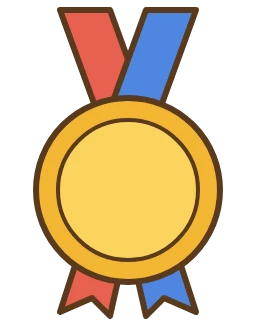
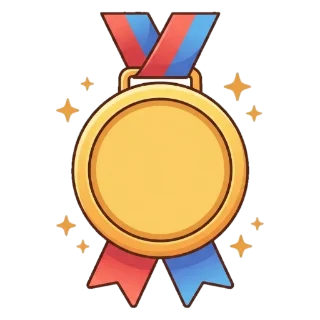
feat: real trophy robot and medal art for the level celebration
On phones the trophy robot now sits next to the medal instead of hiding
behind the round-end buttons; medal and unlocked page share one row and
the level number is centred on the new medal.

diff --git a/css/app.css b/css/app.css
@@ -246,9 +246,12 @@ input[type="range"] { width: 100%; accent-color: var(--primary); height: 32px; }
 .level-row + .level-row { border-top: 2px solid var(--line); }
 .level-row h3 { margin: 4px 0 0; font-size: 1.1rem; }
 .level-up { position: relative; width: 96px; height: 120px; animation: pop .5s .4s both; }
+.end-row { display: flex; align-items: center; justify-content: center; gap: 20px; }
+.level-up-robot { display: none; width: 96px; animation: pop .5s .4s both; }
+@media (max-width: 480px) { .level-up-robot { display: block; } .mascot-trophy { display: none; } }
 .level-up .medal { width: 100%; height: 100%; object-fit: contain; }
-.medal-num { position: absolute; left: 0; right: 0; top: 59%; transform: translateY(-50%); text-align: center; font-size: 2.6rem; font-weight: 700; line-height: 1; color: #8A5A12; }
-.medal-badge { width: 24px; height: 30px; display: grid; place-items: end center; padding-bottom: 3px; background: url(../assets/decor/medal.webp) center / contain no-repeat; color: #8A5A12 !important; font-size: .75rem !important; }
+.medal-num { position: absolute; left: 0; right: 0; top: 51%; transform: translateY(-50%); text-align: center; font-size: 2.6rem; font-weight: 700; line-height: 1; color: #8A5A12; }
+.medal-badge { width: 24px; height: 30px; display: grid; place-items: center; padding-top: 1px; background: url(../assets/decor/medal.webp) center / contain no-repeat; color: #8A5A12 !important; font-size: .75rem !important; }
 .hint.done { display: flex; align-items: center; gap: 8px; color: var(--ink); font-weight: 700; }
 .hint.done img { width: 28px; height: 35px; object-fit: contain; }
 .letter-grid { display: grid; grid-template-columns: repeat(auto-fill, minmax(48px, 1fr)); gap: 6px; margin: 8px 0 12px; }
@@ -311,6 +314,7 @@ input[type="range"] { width: 100%; accent-color: var(--primary); height: 32px; }
   .bonus { font-size: 8vh; }
   .bonus img { width: 8vh; }
   .sticker-hint { padding: 1.5vh 18px; font-size: min(1.3rem, 6vh); }
+  .level-up { width: 16vh; height: 20vh; }
   .unlock { font-size: 6vh; }
   .unlock img { width: 8vh; }
   .rays { --rays: 60vh; }

diff --git a/js/ui/round-end.js b/js/ui/round-end.js
@@ -65,6 +65,11 @@ export function renderRoundEnd(root, ctx, { exerciseId, correct, reward }) {
     ? h('div', { class: 'level-up', 'data-testid': 'level-up', role: 'img', 'aria-label': `Level ${reward.levelUp.to + 1}` },
       decor('medal', 'medal'), h('span', { class: 'medal-num', 'data-testid': 'level-up-num' }, String(reward.levelUp.to + 1)))
     : null;
+  // medal and unlocked page share a row; on phones the trophy robot joins them instead of hiding behind the buttons
+  const prizeRow = levelUp || unlocked
+    ? h('div', { class: 'end-row' },
+      levelUp ? h('img', { class: 'level-up-robot', src: 'assets/mascot/robot-trophy.webp', alt: '' }) : null, levelUp, unlocked)
+    : null;
   const mascot = reward.levelUp ? 'robot-trophy' : share(correct) >= GOOD ? 'robot-cheer' : 'robot-wave';
   const bubble = share(correct) >= GREAT ? decor('bubble-yay', 'end-bubble') : share(correct) >= GOOD ? decor('bubble-wow', 'end-bubble') : null;
   const btn = (icon, testid, label, onClick, extra = '') =>
@@ -81,13 +86,12 @@ export function renderRoundEnd(root, ctx, { exerciseId, correct, reward }) {
           bubble,
           h('div', { class: 'big-stars' }, decor('star-big', 'big-star'), h('span', {}, String(correct)))),
         prize,
-        levelUp,
-        unlocked),
+        prizeRow),
       h('div', { class: 'end-actions' },
         btn('again', 'play-again', 'Nochmal', () => ctx.go('round', { exerciseId })),
         albumBtn,
         btn('check', 'round-done', 'Fertig', () => ctx.go('menu'), 'is-go'))),
-    h('img', { class: 'mascot', src: `assets/mascot/${mascot}.webp`, 'data-testid': 'end-mascot', alt: '' }),
+    h('img', { class: reward.levelUp ? 'mascot mascot-trophy' : 'mascot', src: `assets/mascot/${mascot}.webp`, 'data-testid': 'end-mascot', alt: '' }),
   );
   if (card && motion) playReveal({ card, rays, target: albumBtn, count, total }, track);
   ctx.sounds.fanfare();

diff --git a/sw.js b/sw.js
@@ -1,5 +1,5 @@
 // PRECACHE-START (generated by tools/update-precache.mjs – do not edit)
-const VERSION = '3210424ba7';
+const VERSION = '102d5985df';
 const PRECACHE = [
   "./",
   "./assets/avatars/astronaut.webp",

diff --git a/CHANGELOG.md b/CHANGELOG.md
@@ -5,7 +5,7 @@
 - Klassenstufen: Vorschule und Klasse 1, jede mit eigenen Leveln und eigenen Anzeigedauern; Wechsel im Elternbereich mit Rückfrage, Sticker und Sterne bleiben
 - Vier feste Level pro Übung; neue Profile starten auf Level 1, Eltern können pro Übung direkt ein höheres Level wählen
 - Beherrscht das Kind ein Level, geht es am Rundenende automatisch eins höher (nie tiefer); „Level festhalten“ verhindert das; bei fester Anzeigedauer gilt das gewählte Level
-- Level-Feier am Rundenende: Roboter mit Pokal und Medaille mit der neuen Level-Nummer (Grafiken vorerst als Platzhalter)
+- Level-Feier am Rundenende: Roboter mit Pokal und Medaille mit der neuen Level-Nummer
 - Runden mit 5 statt 10 Aufgaben, Sticker ab 4 Richtigen
 - Sammelalbum nach Übung und Level geordnet: jede Seite gehört zu einem Level und öffnet sich, sobald es erreicht ist; schon gesammelte Sticker bleiben sichtbar
 - Mengen nicht mehr nur als Würfelbild: auch Reihe, Paare, zwei Gruppen und Kreis, gedreht und gespiegelt

diff --git a/_lokal/README.md b/_lokal/README.md
@@ -2,7 +2,7 @@ Lokale Notizen und Testdaten. Inhalt außer dieser Datei wird nicht committet.
 
 ## Offen für später (1.7.0)
 
-Die Level-Feier nutzt im Repo noch Platzhalter. Echte Bilder so nachziehen:
+Die Level-Feier nutzt die echten Bilder (seit 1.7.0). Bei neuen Originalen so nachziehen:
 
 1. `robot-trophy.jpg` (Roboter mit Pokal) und `medal.jpg` (Medaille) nach `_lokal/source/` legen, jeweils ein Motiv auf weißem Grund.
 2. `node tools/extract-sprites.mjs sheets` → `_lokal/extracted/mascot/robot-trophy.png`, `_lokal/extracted/decor/medal.png`
